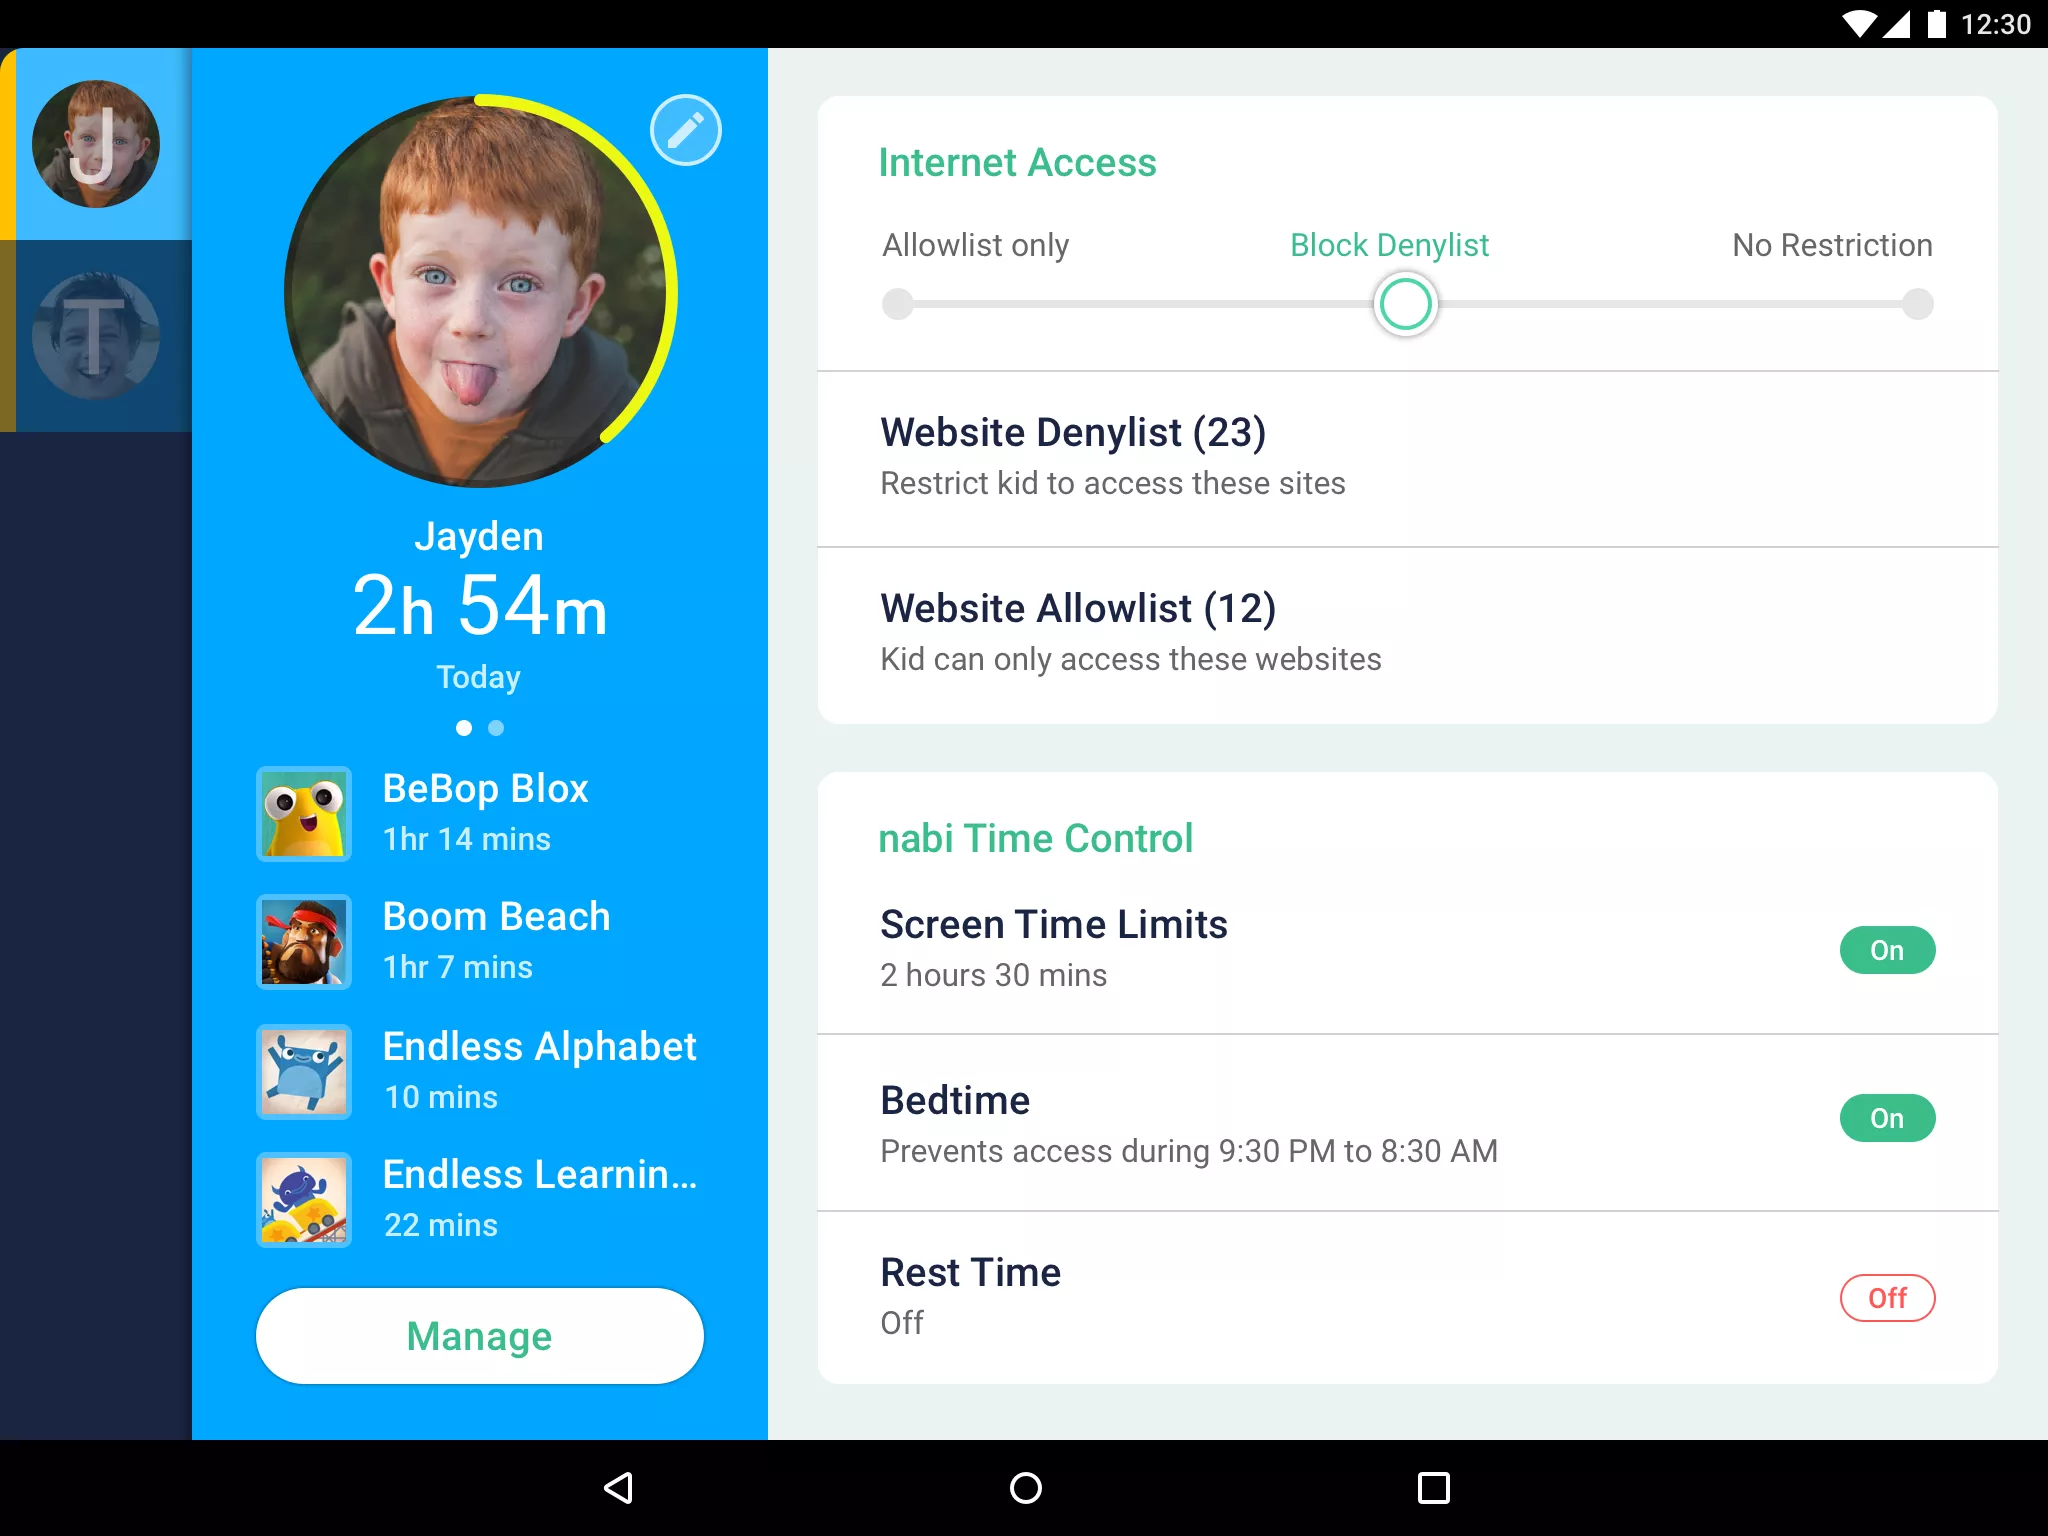
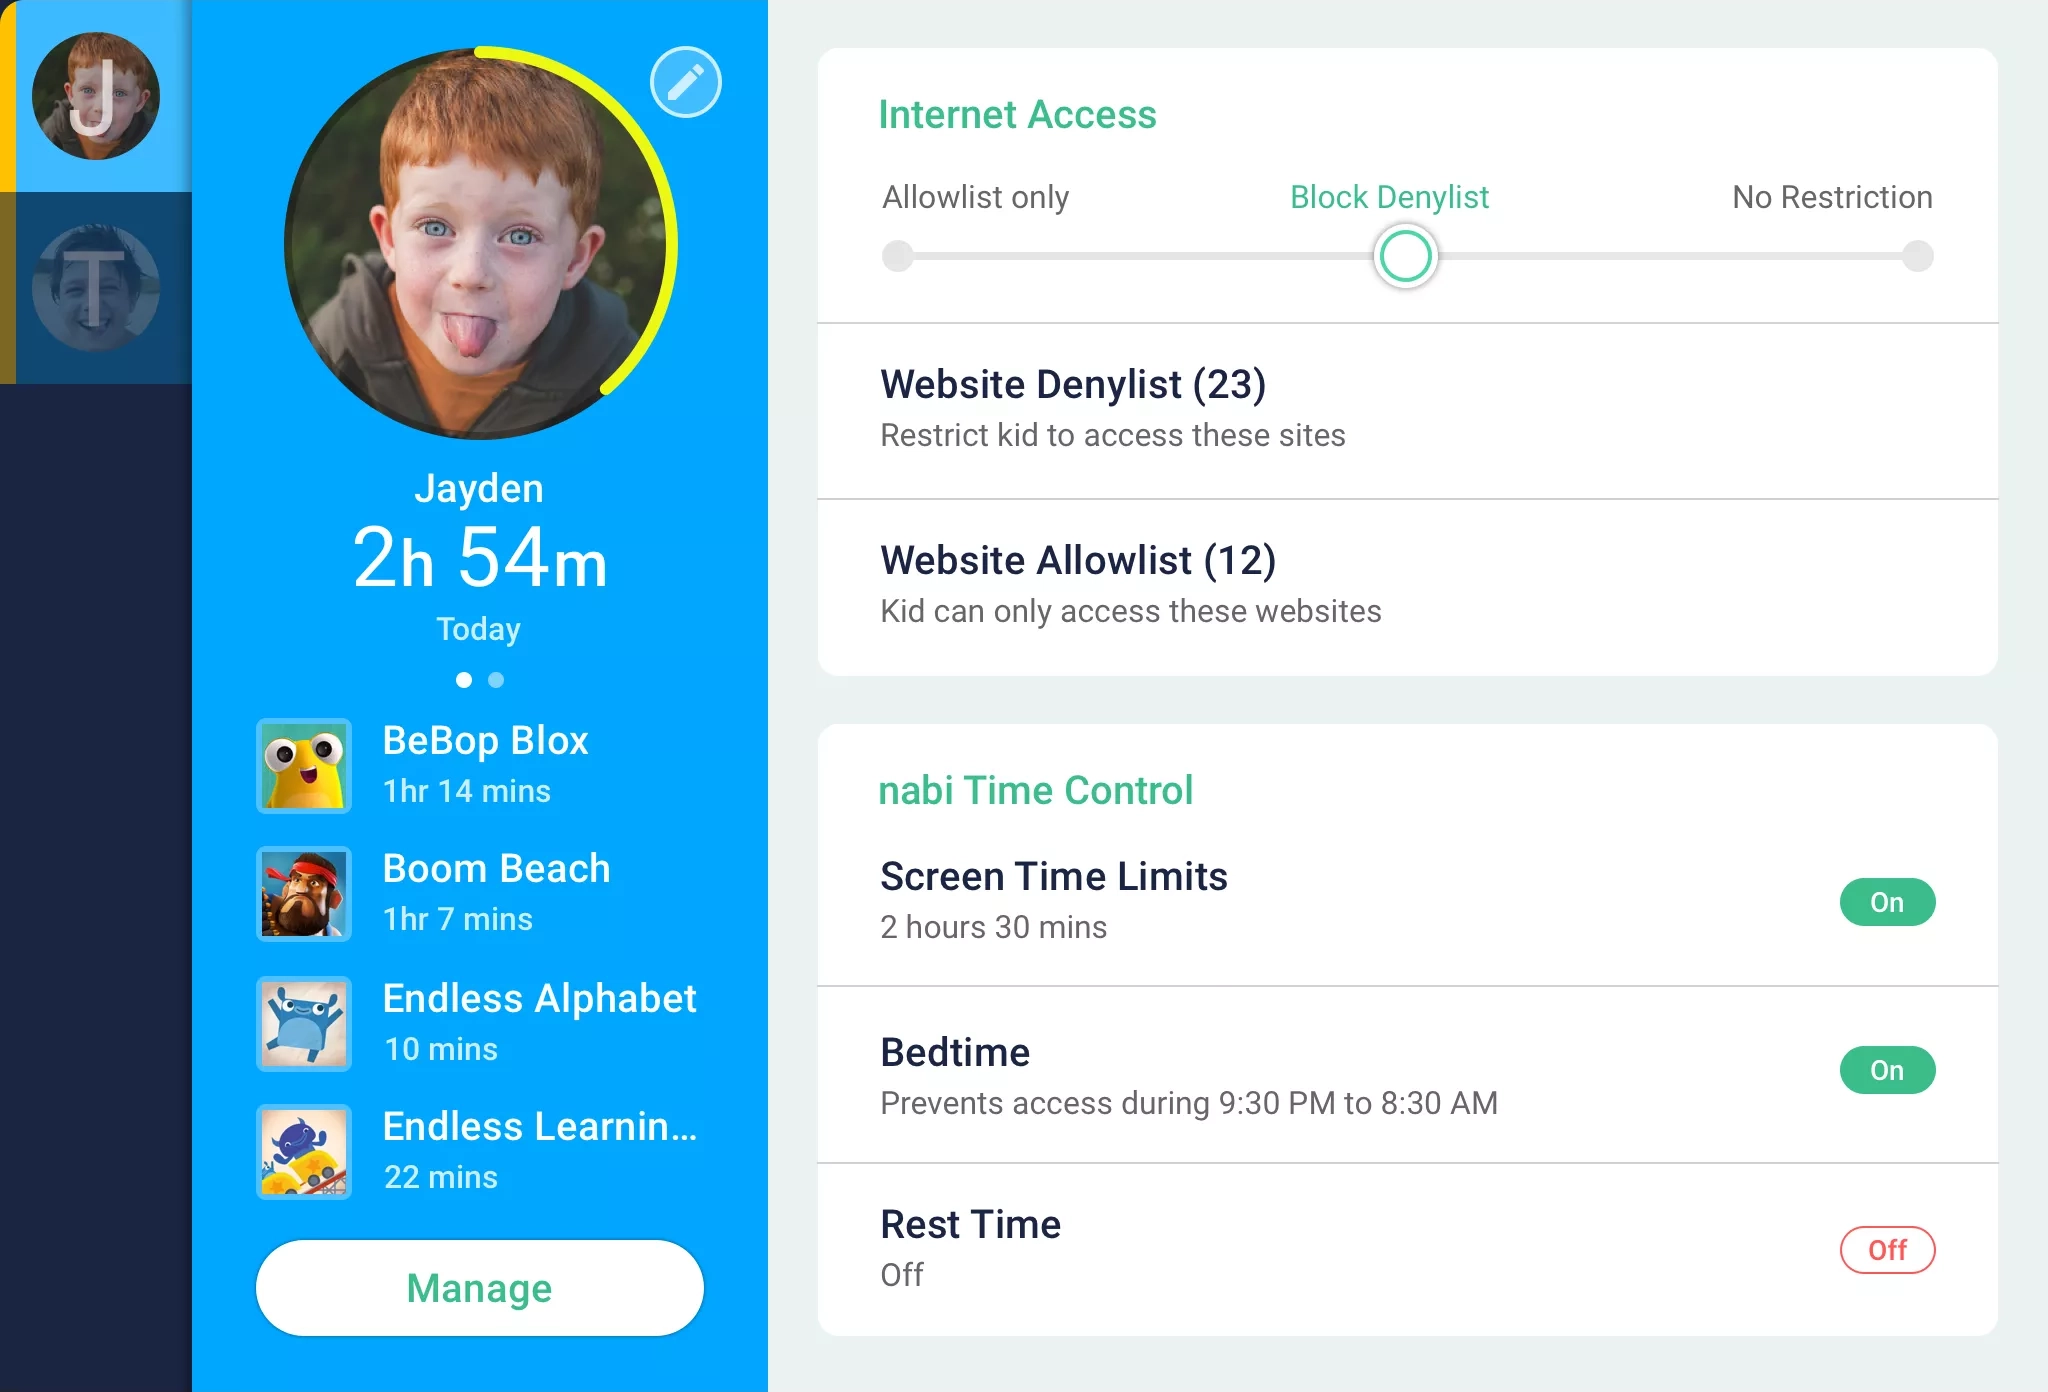
updated screenshots

diff --git a/updatecenter.html b/updatecenter.html
@@ -132,42 +132,47 @@
 		 <div class="mySectionGroup">
           <p>The objective was to enhance the success rate of updates and reduce the workload of the Customer Care team. To achieve this, we aimed to eliminate any obstacles faced by the customers. After analyzing the user journey and taking into account customer feedback, we concluded that the ugly UI was not as significant a problem as the notification system and instructions. Therefore, we prioritized our focus as below: </p>
           <div class="genScreenshot"><img src="images/update/update_priority.webp"/> </div>
-          <h2 id="list-item-5"><span class="headingTag">Final Design</span><br>
-            The Page Flow</h2>
-          <div class="genScreenshot">
+         <div class="mySectionGroup"><h2 id="list-item-5"><span class="headingTag">Final Design</span><br>
+            The Page Flow</h2></div>
+			 
+			 <div class="mySectionGroup">   <div class="genScreenshot">
             <video width="100%" controls="controls" muted="muted" loop="loop" >
               <source src="images/update/update_pageFlow.webm" type="video/webm">
               <source src="images/update/update_pageFlow.mp4" type="video/mp4">
             </video>
-          </div>
+          </div></div>
+			 <div class="mySectionGroup">
           <h2><span class="headingTag">Final Design</span><br>
             The New System Update Flow</h2>
-          <div class="genScreenshot"><img src="images/update/update_install.png" class="roundedCorner"/>
+			 
+			 </div>
+			 <div class="mySectionGroup">
+          <div class="genScreenshot"><img src="images/update/update_install.webp" class="roundedCorner"/>
             <p>↑ The system prompts users when the update is ready.</p>
           </div>
-          <div class="genScreenshot"><img src="images/update/update_system.png" class="roundedCorner"/>
+          <div class="genScreenshot"><img src="images/update/update_system.webp" class="roundedCorner"/>
             <p>↑ The System Update page provide detailed release notes. </p>
           </div>
-          <div class="genScreenshot"><img src="images/update/update_damage.png" class="roundedCorner"/>
+          <div class="genScreenshot"><img src="images/update/update_damage.webp" class="roundedCorner"/>
             <p>↑ Before installing updates, the system will verify files to prevent installation failure due to corrupted files.</p>
           </div>
-          <div class="genScreenshot"><img src="images/update/update_lowBattery.png" class="roundedCorner"/>
+          <div class="genScreenshot"><img src="images/update/update_lowBattery.webp" class="roundedCorner"/>
             <p>↑ To avoid update failures, the system prompts users to connect the charger before the installation proceeds.</p>
           </div>
-          <div class="genScreenshot"><img src="images/update/2_System_up-to-date.png" class="roundedCorner"/>
+          <div class="genScreenshot"><img src="images/update/update_UI_up-to-date.webp" class="roundedCorner"/>
             <p>↑ Once updated, the tablet displays "Your System is Up to Date" on the page.</p>
           </div>
           <h2><span class="headingTag">Final Design</span><br>
             The centralized Place for Updating Built-in Tools</h2>
-          <div class="genScreenshot"><img src="images/update/1_nabiApp.png" class="roundedCorner"/>
+          <div class="genScreenshot"><img src="images/update/update_UI_nabiApp.webp" class="roundedCorner"/>
             <p>↑ The update information for the nabi® built-in tools is centralized on the nabi Utilities page.</p>
           </div>
-          <div class="genScreenshot"><img src="images/update/1_nabiApp_History.png" class="roundedCorner"/>
+          <div class="genScreenshot"><img src="images/update/update_UI_history.webp" class="roundedCorner"/>
             <p>↑ Users can check the release notes for recent updates.</p>
           </div>
-          <div class="genScreenshot"><img src="images/update/3_Restoration.png" class="roundedCorner"/>
+          <div class="genScreenshot"><img src="images/update/update_UI_Restoration.webp" class="roundedCorner"/>
             <p>↑ A centralized place for users to update or restore the gift apps.</p>
-          </div>
+				 </div></div>
         </div>
       </main>
     </div>

diff --git a/parental.html b/parental.html
@@ -96,10 +96,10 @@
          
           <p>To portray the lives of modern American families, I drew on materials from <a href="https://www.pewresearch.org/" target="_blank" class="blankPg">the Pew Research Center</a> and <a href="https://www.kff.org/" target="_blank" class="blankPg">the Kaiser Family Foundation (KFF).</a></p>
           <p>After analyzing these sources, I concluded that parents need a simple way to set up parental controls, rather than a complex tool like Google Analytics.</p>
-          <div class="genScreenshot"><img src="images/parental/parental_data.png"/>
+          <div class="genScreenshot"><img src="images/parental/parental_data.webp"/>
             <p>Parents have no time for Google-analytics-like tools</p>
           </div>
-          <div class="genScreenshot"><img src="images/parental/parental_time.png"/>
+          <div class="genScreenshot"><img src="images/parental/parental_time.webp"/>
             <p>Parents have on 6 hours for their family</p>
           </div>
         </div>
@@ -108,7 +108,7 @@
 			<h2 id="list-item-3"><span class="headingTag">Information Architecture</span><br>
 				Integrating Everyting Into One App</h2></div>
 			 <div class="mySectionGroup">
-          <div class="genScreenshot"><img src="images/parental/parental_IA.png"/><p>The old version of Parental Controls was composed of 2 separate standalone applications, making maintenance a difficult process.</p></div></div>
+          <div class="genScreenshot"><img src="images/parental/parental_IA.png"/><p>The old version of Parental Controls was composed of 13 separate standalone apps, making maintenance a difficult process.</p></div></div>
           <div class="mySectionGroup">
 				 <h2 id="list-item-4"><span class="headingTag">Design Considerations</span><br>
             Making Key Components Easily Accessible</h2></div>
